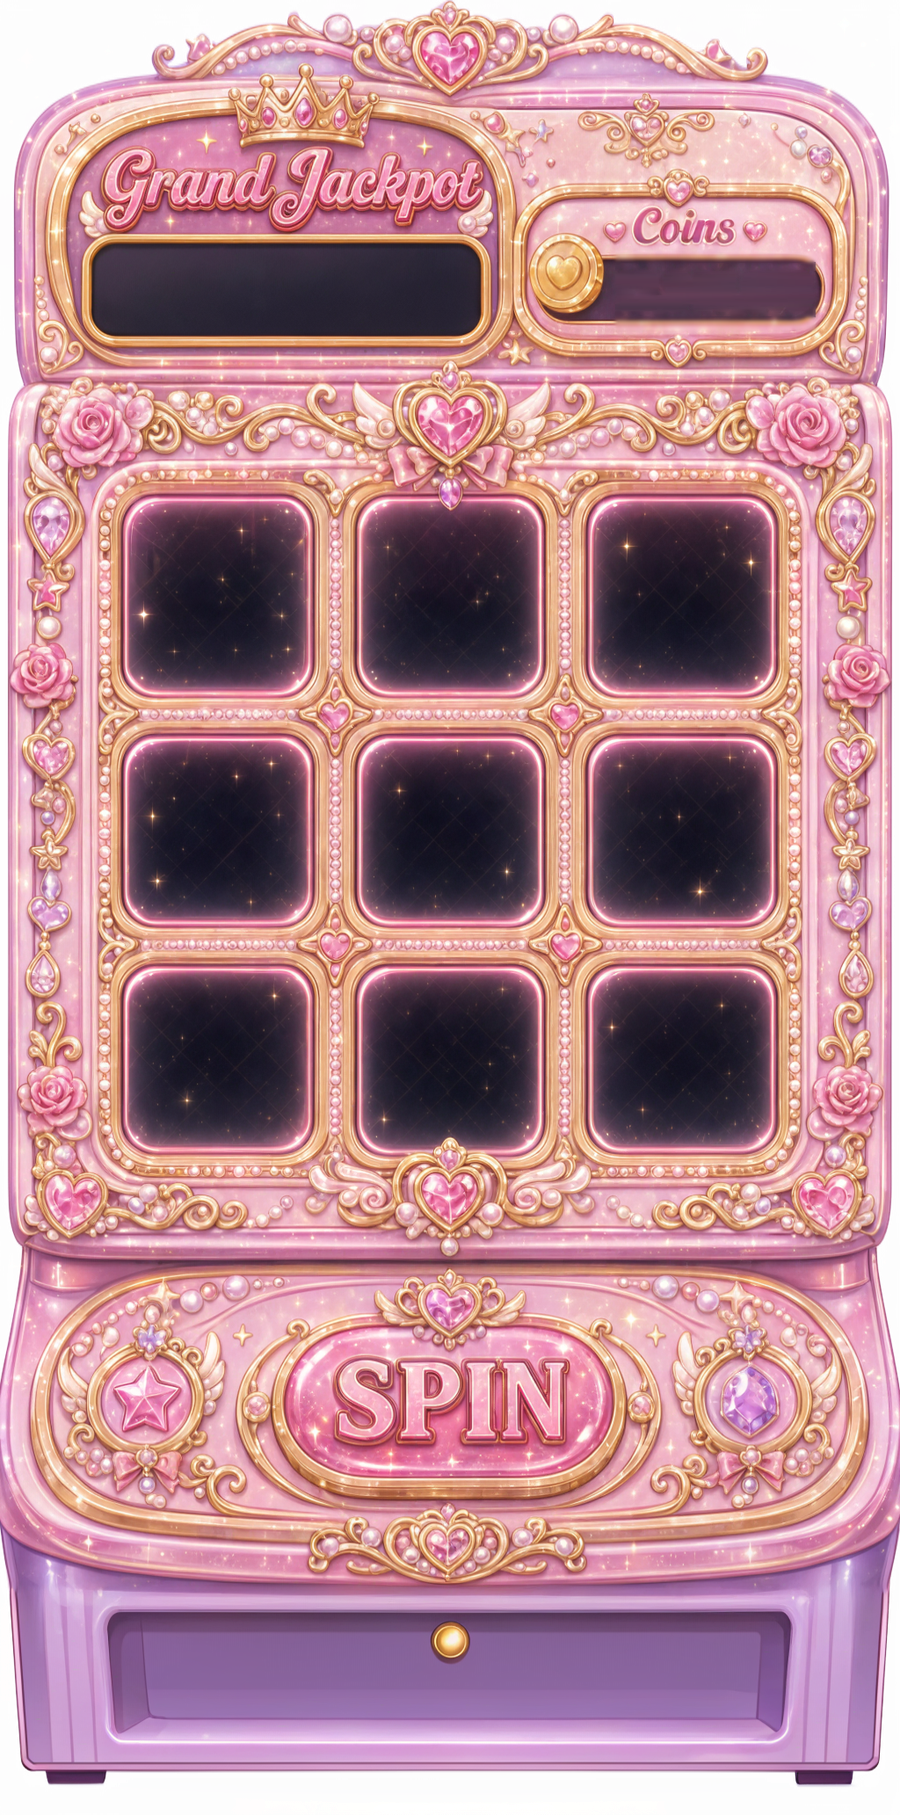
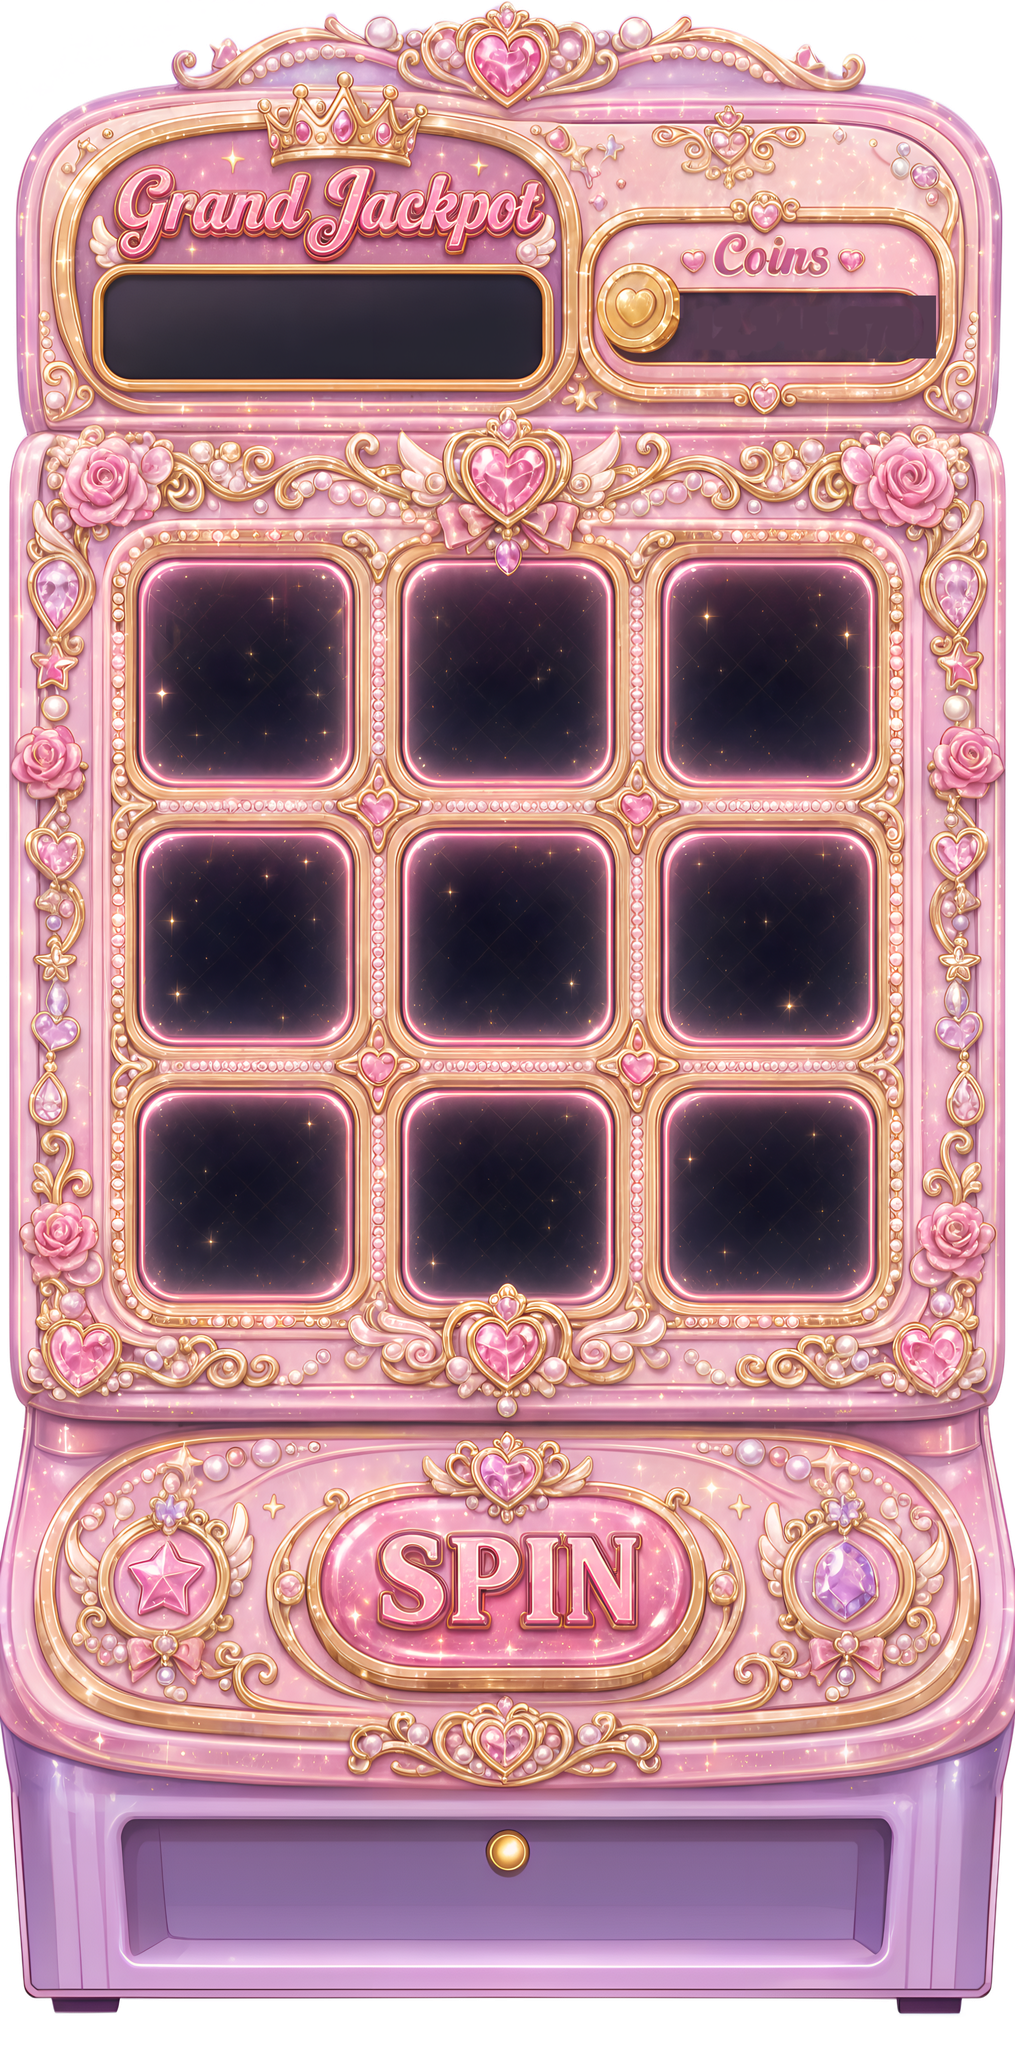
Bigger upscaled slot cabinet (number erased) + smaller wheel pointer
- Slot machine: swap in the user's upscaled cabinet art (crisper), bump
  CAB_W 340->400 so it fills more of the frame, cache-bust v3. The upscale
  re-baked '12,345,678' into the Coins display, so erase it via per-row
  near-black inpaint of the dark interior only (title/rim/heart preserved)
  — leaving a clean display for the live coin overlay.
- Wheel: shrink the pointer triangle (0.244->0.20 of box) and tuck it
  closer to the rim.

Changed region(s): [[0.8089, 0.1234, 0.9333, 0.1851], [0.7156, 0.1234, 0.7778, 0.1543], [0.9956, 0.8331, 1.0, 0.8639]]

diff --git a/src/components/SlotMachine.jsx b/src/components/SlotMachine.jsx
@@ -4,8 +4,8 @@ import { playSpinStart, playReelStop, playLineWin, playCoinTick, playSlotWin } f
 
 // ── Cabinet geometry ──────────────────────────────────────────────
 // Fractions measured from /ui/slot_cabinet.png (900 x 1815).
-const CAB_W = 340
-const CAB_H = Math.round(CAB_W / (900 / 1815))   // ≈ 686, keeps the art's aspect
+const CAB_W = 400
+const CAB_H = Math.round(CAB_W / (900 / 1815))   // ≈ 807, keeps the art's aspect
 
 // 3 reel columns: [leftFrac, widthFrac]
 const COLS_F = [[0.162, 0.160], [0.419, 0.162], [0.676, 0.165]]
@@ -186,7 +186,7 @@ export default function SlotMachine({ session, onComplete, jackpotPool = 0 }) {
         animation: shaking ? 'slot-shake 0.38s ease-out' : 'none',
         filter: 'drop-shadow(0 12px 28px rgba(196,75,106,0.32))',
       }}>
-        <img src="/ui/slot_cabinet.png" alt="" draggable={false}
+        <img src="/ui/slot_cabinet.png?v=3" alt="" draggable={false}
           style={{ position: 'absolute', inset: 0, width: '100%', height: '100%', pointerEvents: 'none', userSelect: 'none' }} />
 
         {/* Progressive jackpot pool → the "Grand Jackpot" display */}

diff --git a/src/components/Wheel.jsx b/src/components/Wheel.jsx
@@ -11,8 +11,8 @@ const CX = BOX / 2, CY = BOX / 2            // SVG center
 const R = Math.round(BOX * 0.444)          // segment radius — tucks just under the rim's inner lip
 const R_TEXT = Math.round(BOX * 0.345)     // label center radius (labels run radially along the spoke)
 const HUB = Math.round(BOX * 0.25)         // center-cap display size
-const POINTER_W = Math.round(BOX * 0.244)  // pointer display width
-const POINTER_TOP = -Math.round(BOX * 0.08)// how far the pointer pokes above the wheel
+const POINTER_W = Math.round(BOX * 0.20)   // pointer display width (smaller triangle)
+const POINTER_TOP = -Math.round(BOX * 0.045)// how far the pointer pokes above the wheel
 
 // Themed wedge colors: T1 pink, T2 lavender, T3 mint; Bonus gold, Jackpot bright gold.
 const WEDGE_CFG = {